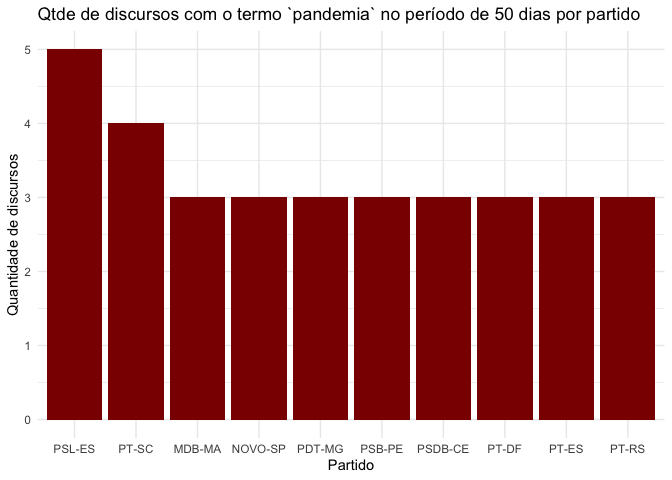
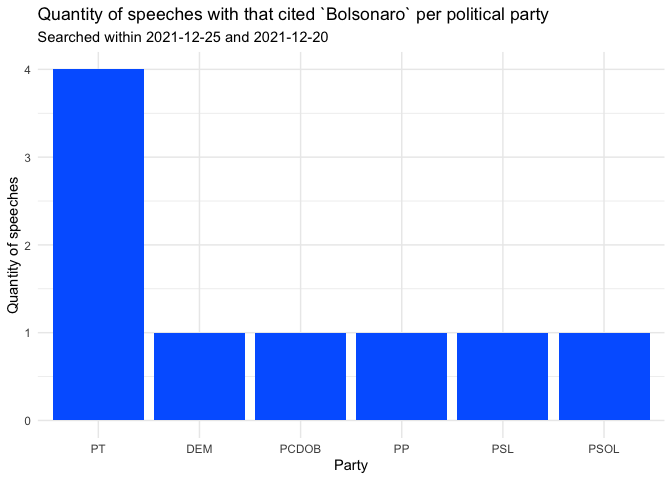
Update README

diff --git a/README.md b/README.md
@@ -27,50 +27,52 @@ devtools::install_github("dcardosos/speechbr")
 
 ## Example
 
-An example of a base searching for the term “pandemia” (“pandemic”, in
-English):
+An example of a base searching for the term “Bolsonaro”:
 
 ``` r
 library(speechbr)
 library(ggplot2)
 
-pandemic <- speechbr::speech_data(
-  keyword = "pandemia",
-  reference_date = "2021-12-20",
+tab <- speechbr::speech_data(
+  keyword = "Bolsonaro",
+  reference_date = "2021-12-25",
   qtd_days = 5)
 
-dplyr::glimpse(pandemic)
-#> Rows: 98
-#> Columns: 9
-#> $ data             <date> 2021-12-17, 2021-12-17, 2021-12-17, 2021-12-17, 2021…
-#> $ sessao           <chr> "33.2021.N", "33.2021.N", "33.2021.N", "33.2021.N", "…
+dplyr::glimpse(tab)
+#> Rows: 9
+#> Columns: 10
+#> $ data             <date> 2021-12-21, 2021-12-21, 2021-12-21, 2021-12-21, 2021…
+#> $ sessao           <chr> "35.2021.N", "35.2021.N", "35.2021.N", "35.2021.N", "…
 #> $ fase             <chr> "ORDEM DO DIA", "ORDEM DO DIA", "ORDEM DO DIA", "ORDE…
-#> $ discurso         <chr> "O SR. AGUINALDO RIBEIRO (PP - PB. Para discursar. Se…
-#> $ orador           <chr> "AGUINALDO RIBEIRO", "FELIPE CARRERAS", "FERNANDA MEL…
-#> $ partido          <chr> "PP-PB", "PSB-PE", "PSOL-RS", "PSOL-RJ", "NOVO-RJ", "…
-#> $ hora             <chr> "19h24", "19h20", "14h36", "14h28", "14h12", "13h36",…
+#> $ discurso         <chr> "O SR. KIM KATAGUIRI (DEM - SP. Pela ordem. Sem revis…
+#> $ orador           <chr> "KIM KATAGUIRI", "VITOR HUGO", "REGINALDO LOPES", "GL…
+#> $ partido          <chr> "DEM", "PSL", "PT", "PSOL", "PP", "PCDOB", "PT", "PT"…
+#> $ estado           <chr> "SP", "GO", "MG", "RJ", "BA", "BA", "SP", "SP", "MG"
+#> $ hora             <chr> "19h44", "19h32", "19h20", "19h12", "18h48", "18h44",…
 #> $ local_publicacao <chr> "DCD", "DCD", "DCD", "DCD", "DCD", "DCD", "DCD", "DCD…
-#> $ data_publicacao  <date> 2021-12-18, 2021-12-18, 2021-12-18, 2021-12-18, 2021…
+#> $ data_publicacao  <date> 2021-12-22, 2021-12-22, 2021-12-22, 2021-12-22, 2021-…
 ```
 
-The default of function is search within 2021-12-26 and 2021-12-31. If
-you want change this, use the arguments `reference_date` and `qtd_days`.
+The others parameters are `partido` (political party), `orador`
+(speaker’s name) and `uf` (state acronym). The default values of them
+are *empty* (““).
 
 A simple application using the base:
 
 ``` r
-pandemic %>% 
+tab %>% 
   dplyr::group_by(partido) %>% 
   dplyr::count(partido) %>% 
   dplyr::ungroup() %>% 
   dplyr::top_n(10, n) %>%
   ggplot(aes(reorder(partido, -n), n)) +
-  geom_bar(stat = "identity", fill = "dark red") +
+  geom_bar(stat = "identity", fill = "#0066ff") +
   theme_minimal() +
   labs(
-    title = "Qtde de discursos com o termo `pandemia` no período de 50 dias por partido",
-    x = "Partido",
-    y = "Quantidade de discursos"
+    title = "Quantity of speeches with that cited `Bolsonaro` per political party",
+    subtitle = "Searched within 2021-12-25 and 2021-12-20", 
+    x = "Party",
+    y = "Quantity of speeches"
   )
 ```
 
@@ -78,7 +80,7 @@ pandemic %>%
 
 ### Example of a base
 
-| data       | sessao    | fase         | discurso                                                                                                                                                                                                                                                                                                                                                                                                                                                                                                                                                                                                                                                                                                                                                                                                                                                                                                                                                                                                                                                                                                                                                                                                                                                                                                                                                                                                                                                                                                                                                                                                                                                                                                                                                                                                                                                                                                                                                                                                                                                                                                                                                                                                                                                                                                                                                                                                                                                                                           | orador            | partido | hora  | local_publicacao | data_publicacao |
-|:-----------|:----------|:-------------|:---------------------------------------------------------------------------------------------------------------------------------------------------------------------------------------------------------------------------------------------------------------------------------------------------------------------------------------------------------------------------------------------------------------------------------------------------------------------------------------------------------------------------------------------------------------------------------------------------------------------------------------------------------------------------------------------------------------------------------------------------------------------------------------------------------------------------------------------------------------------------------------------------------------------------------------------------------------------------------------------------------------------------------------------------------------------------------------------------------------------------------------------------------------------------------------------------------------------------------------------------------------------------------------------------------------------------------------------------------------------------------------------------------------------------------------------------------------------------------------------------------------------------------------------------------------------------------------------------------------------------------------------------------------------------------------------------------------------------------------------------------------------------------------------------------------------------------------------------------------------------------------------------------------------------------------------------------------------------------------------------------------------------------------------------------------------------------------------------------------------------------------------------------------------------------------------------------------------------------------------------------------------------------------------------------------------------------------------------------------------------------------------------------------------------------------------------------------------------------------------------|:------------------|:--------|:------|:-----------------|:----------------|
-| 2021-12-17 | 33.2021.N | ORDEM DO DIA | O SR. AGUINALDO RIBEIRO (PP - PB. Para discursar. Sem revisão do orador.) - Rapidamente, eu quero só aproveitar a fala do nosso eminente Deputado Felipe Carreras e também consignar, inclusive como Líder da Maioria no Congresso Nacional, que ontem, na reunião, representando a Maioria, ela se expressou de forma muito contundente na defesa da apreciação deste veto que trata do PERSE, que é exatamente a que se referiu o Deputado Felipe Carreras. Nós colocamos a nossa posição: não dá mais para não apreciar esta matéria, até porque estamos vendo que, pelo cenário que se avizinha, várias cidades já cancelaram eventos. Então, essa realidade vai se agravar, não vai melhorar a curto prazo.Por isso, é importante que este veto seja enfrentado logo na primeira sessão de fevereiro, pois foi o compromisso que fizemos, Presidente, com a maioria dos Líderes e com o Líder do Governo no Congresso, o Senador Eduardo Gomes. E isso foi acordado também com o Presidente Rodrigo Pacheco e com o Presidente Marcelo Ramos, que inclusive reafirmou no Senado Federal, mais cedo, exatamente a questão da retomada dos vetos.Então, eu queria só fazer esse registro, Presidente Marcelo Ramos, e agradecer aos Líderes, a V.Exa. pela condução dos trabalhos, aos nossos Presidentes Rodrigo Pacheco e Arthur Lira e, sobretudo, a todos os Líderes que, junto às suas bancadas, construíram um acordo para chegarmos nesta noite - e muitas pessoas duvidavam disso - e votarmos o que foi deliberado na tarde de hoje. Assim, queria felicitar V.Exa. pelo equilíbrio, pela serenidade e também pela firmeza na condução dos trabalhos.Quero aproveitar para desejar - como todos já o fizeram, neste clima natalino - um feliz Natal a todos! E o feliz ano novo nós deixamos para desejar na segunda-feira, quando ainda teremos sessão.                                                                                                                                                                                                                                                                                                                                                                                                                                                                                                                                                                                                                               | AGUINALDO RIBEIRO | PP-PB   | 19h24 | DCD              | 2021-12-18      |
-| 2021-12-17 | 33.2021.N | ORDEM DO DIA | O SR. FELIPE CARRERAS (PSB - PE. Para discursar. Sem revisão do orador.) - Sr. Presidente e todos os que estão assistindo à sessão de forma virtual, eu estou Presidente da Frente Parlamentar Mista em Defesa da Produção Cultural e Entretenimento, um desafio que nos foi colocado por todo esse setor no Brasil, que inclui o turismo.Este Congresso Nacional, que hoje realiza esta sessão, aprovou por ampla maioria, praticamente por unanimidade, o Programa Emergencial de Retomada do Setor de Eventos - PERSE. Infelizmente, nós não teremos a derrubada do veto sobre este tema. São impressionantes os acordos feitos! Simplesmente nós não teremos a derrubada deste veto, tão esperada pelo setor que indiscutivelmente foi e está sendo o mais penalizado no Brasil. Eu quero demonstrar minha insatisfação com essa grande injustiça, em nome de todos os produtores e de todas as produtoras de eventos, em nome de toda a classe artística brasileira, em nome de todo o trade turístico brasileiro, porque o Governo virou as costas para esse setor. Eu tenho certeza de que, se for cumprido o compromisso, no início de fevereiro, Deputado Aguinaldo Ribeiro, nós teremos a derrubada desse veto. Este Congresso não vai virar as costas para esse setor. Quero, aqui na tribuna do Congresso Nacional, também em nome dos produtores e das produtoras de eventos do Brasil, fazer um agradecimento a uma grande guerreira, a Senadora Daniella Ribeiro. Ela tem sido uma guerreira, uma grande defensora de todo o setor no Senado Federal.Quero mandar um abraço ao Doreni Caramori, Presidente da Associação Brasileira dos Promotores de Eventos - ABRAPE, e parabenizá-lo pelo associativismo desse setor, que na pandemia demonstrou sua grande união em prol de temas importantes, para fazer justiça.Quero fazer um apelo neste momento em que estamos terminando o ano: que esse setor não seja esquecido. Esse setor é tratado, muitas vezes, com hipocrisia. Em muitos Estados, os produtores não vão conseguir fazer festa de réveillon. No carnaval, não se sabe o que está proibido, não se sabe se as pessoas vão poder trabalhar em eventos privados com controle, respeitando a vacinação, em eventos só para vacinados. Muita gente não sabe se vai haver eventos. Isso é um grande desrespeito.Aqui da tribuna da Casa do Povo eu lhes digo: saibam que vocês terão voz aqui no Congresso Nacional.Um grande abraço! Um bom Natal! Que Deus os abençoe! | FELIPE CARRERAS   | PSB-PE  | 19h20 | DCD              | 2021-12-18      |
+| data       | sessao    | fase         | discurso                                                                                                                                                                                                                                                                                                                                                                                                                                                                                                                                                                                                                                                                                                                                                                                                                                                                                                                                                                                                                                                                                                                                                                                                                                                                                                                                                                                                                                                                                                                                                                                                                                                                                                                                                                                                                                                                                                                                                                                                                                                                                                                                                                                                                                                                                                                                                                                                                                                                                                                                                                                                                                                                                                                                                                                                                                                                                                                                                                                                                                                                                                                                                                                                                                                                                                                                                                                                                                                                                                                                                                                                                                                                                                                                                                                                                                                                                                                                                                                                                                                                                                                                                                                                                                                                                                                                                                                                                                                                                                                                                                                                                                                                                                                                                                                                                                                                                                                                                                                                                                                                                                                                                                                                                                                                                                                                                                                                                                                                                                                                                                                                                                                                                                                                                                                                                                                                                                                                                                                                                                                                               | orador        | partido | estado | hora  | local_publicacao | data_publicacao |
+|:-----------|:----------|:-------------|:---------------------------------------------------------------------------------------------------------------------------------------------------------------------------------------------------------------------------------------------------------------------------------------------------------------------------------------------------------------------------------------------------------------------------------------------------------------------------------------------------------------------------------------------------------------------------------------------------------------------------------------------------------------------------------------------------------------------------------------------------------------------------------------------------------------------------------------------------------------------------------------------------------------------------------------------------------------------------------------------------------------------------------------------------------------------------------------------------------------------------------------------------------------------------------------------------------------------------------------------------------------------------------------------------------------------------------------------------------------------------------------------------------------------------------------------------------------------------------------------------------------------------------------------------------------------------------------------------------------------------------------------------------------------------------------------------------------------------------------------------------------------------------------------------------------------------------------------------------------------------------------------------------------------------------------------------------------------------------------------------------------------------------------------------------------------------------------------------------------------------------------------------------------------------------------------------------------------------------------------------------------------------------------------------------------------------------------------------------------------------------------------------------------------------------------------------------------------------------------------------------------------------------------------------------------------------------------------------------------------------------------------------------------------------------------------------------------------------------------------------------------------------------------------------------------------------------------------------------------------------------------------------------------------------------------------------------------------------------------------------------------------------------------------------------------------------------------------------------------------------------------------------------------------------------------------------------------------------------------------------------------------------------------------------------------------------------------------------------------------------------------------------------------------------------------------------------------------------------------------------------------------------------------------------------------------------------------------------------------------------------------------------------------------------------------------------------------------------------------------------------------------------------------------------------------------------------------------------------------------------------------------------------------------------------------------------------------------------------------------------------------------------------------------------------------------------------------------------------------------------------------------------------------------------------------------------------------------------------------------------------------------------------------------------------------------------------------------------------------------------------------------------------------------------------------------------------------------------------------------------------------------------------------------------------------------------------------------------------------------------------------------------------------------------------------------------------------------------------------------------------------------------------------------------------------------------------------------------------------------------------------------------------------------------------------------------------------------------------------------------------------------------------------------------------------------------------------------------------------------------------------------------------------------------------------------------------------------------------------------------------------------------------------------------------------------------------------------------------------------------------------------------------------------------------------------------------------------------------------------------------------------------------------------------------------------------------------------------------------------------------------------------------------------------------------------------------------------------------------------------------------------------------------------------------------------------------------------------------------------------------------------------------------------------------------------------------------------------------------------------------------------------------------------------------------------------------------|:--------------|:--------|:-------|:------|:-----------------|:----------------|
+| 2021-12-21 | 35.2021.N | ORDEM DO DIA | O SR. KIM KATAGUIRI (DEM - SP. Pela ordem. Sem revisão do orador.) - Sr. Presidente, Sras. e Srs. Deputados, Sras. e Srs. Senadores, lamento que o ano termine com este Parlamento chancelando o que o Governo de Jair Bolsonaro enviou para o Orçamento do ano que vem: previsão de fila para receber o Auxílio Brasil, para quem está na pobreza, para quem está na extrema pobreza, e de prioridade tanto para o orçamento do Fundo Eleitoral, para o pagamento de campanhas políticas, como também para o orçamento secreto. E sei também que muitos dos Parlamentares bolsonaristas votam agora contra o Orçamento, mas jogando para a plateia. É gente que vota contra aqui no plenário, mas depois, na campanha do ano que vem, vai pedir ao seu partido recursos, dinheiro, para fazer campanha. Pelo menos quem vota ‘sim’ nesta votação assume o ônus, assume que está a favor do aumento e não é hipócrita como parte daqueles que votam contra, fazem uma graça aqui em plenário, mas, depois, no ano que vem, vão pedir dinheiro público do Fundo Eleitoral para fazer suas campanhas. Eu me recusei a colocar a minha digital, o meu voto a favor de um Orçamento que prevê 13 vezes mais investimento em campanha eleitoral do que em saneamento básico - é mais importante comprar santinho, alugar caminhão de som, pagar a cabo eleitoral do que garantir acesso a banheiro e a água tratada para milhões de brasileiros. Há 1.167 vezes mais orçamento secreto do que gasto com habitação; mais do que com esporte, mais do que com cultura, mais do que com ciência e tecnologia, mais do que com meio ambiente, mais do que com energia. Diversos Parlamentares nesta Casa têm por bandeira a defesa do meio ambiente, têm por bandeira a defesa do setor energético, têm por bandeira a defesa da cultura, a defesa do esporte, mas, infelizmente, nós não vimos essa atuação tão efusiva na defesa do Orçamento. O Orçamento foi muito mais voltado para a campanha eleitoral e para o orçamento secreto, para o recebimento de dinheiro, de verba, para inaugurarem obra nos seus redutos eleitorais e permanecerem como base do Governo Bolsonaro e coligados com o Governo Bolsonaro. Enfim, haverá um gasto para que o Presidente da República mantenha a sua coligação no ano que vem maior do que com esporte, maior do que com ciência e tecnologia, que estão com as bolsas, como já foi bem colocado aqui, absolutamente sucateadas. E no orçamento secreto não há ideologia, não. Há petista recebendo recursos, há pedetista recebendo recursos; gente do Governo, gente da Oposição. Nessa hora, não há petismo, não há bolsonarismo, ambos votam com o mesmo interesse. Depois, a classe política, nós políticos não sabemos por que as ruas, por que a população tem cada vez menos apreço pela classe política. Ora, vejam as prioridades que nós estabelecemos no Orçamento! Eu peço mais 30 segundos para concluir, Presidente. Vejam as prioridades que esta Casa dá no Orçamento! Dá prioridade para campanha eleitoral, dá prioridade para orçamento secreto, em detrimento de áreas fundamentais para o nosso País, como a ciência e tecnologia, a habitação e o saneamento básico.Eu posso, no ano que vem, não receber nenhum centavo de dinheiro público para fazer minha campanha, mas faço e a farei com a consciência tranquila de que não vendi o meu voto, ou a minha alma, ou a minha convicção, em troca de financiamento público.Obrigado.                                                                                                                                                                                                                                                                                                                                                                                                                                                                                                                                                                                                                                                                                                                                                                                                                                                                                                                                                                                                                                                                                                                                                                                                                                                                                                                                                                                                                                                                                                                                                                                                                                                                                                                                                                                                                                                                                                                                                                                                                                                                                                                                                                                                                                                                                                                                                                                                                                                                                                                                                                                      | KIM KATAGUIRI | DEM     | SP     | 19h44 | DCD              | 2021-12-22      |
+| 2021-12-21 | 35.2021.N | ORDEM DO DIA | O SR. VITOR HUGO (PSL - GO. Pela ordem. Sem revisão do orador.) - Sr. Presidente, inicialmente eu queria parabenizar a Senadora Rose de Freitas pela Presidência da CMO e também o Deputado Hugo Leal pela condução dos trabalhos em relação à relatoria do Orçamento neste ano.Quero dizer da nossa felicidade por termos aprovado esta peça. Por isto o PSL votou a favor: porque sabemos da importância do Orçamento para o Brasil. A maioria do PSL, pelo menos, votou a favor.É claro que a nossa posição já ficou muito clara em relação ao aumento do Fundo Eleitoral quando da apreciação do veto do Presidente Bolsonaro em relação à LDO. Ali o PSL apresentou um destaque. V.Exa. concedeu a votação nominal já de ofício, até porque isso era regimental. Ali, cada Deputado e Senador pôde mostrar a sua posição sobre o fundo.O nosso combate continuou. Nós apresentamos aqui dois destaques, um requerimento de preferência e um destaque de preferência. Na avaliação da nossa Liderança, havia, sim, espaço regimental para isso. O Regimento é uma peça jurídica e nele cabem interpretações.Na nossa visão, o art. 132-A, que trata de apresentações genéricas de destaque, combinado com o art. 49, § 5º, que fala que, recaindo a preferência sobre o substitutivo - que era o caso -, poderão ser destacadas partes do projeto ou emendas, nós fizemos destaque de preferência para parte do projeto original. O Regimento Comum não fala que, para destaque de preferência para parte do projeto, tem que haver apoiamento.Essa foi a interpretação da nossa Liderança. Nós a apresentamos nesse sentido sem qualquer intenção diferente de que cada um pudesse aqui se manifestar, votar e demonstrar mais uma vez para todo o País qual é a sua posição.Essa foi a interpretação do PSL, mas eu quero esclarecer também à Nação que essa posição já ficou evidente na votação do veto. Ali cada um já pôde expressar sua posição.Quero também aqui, Presidente, dizer que não houve, na sua fala - eu vou me retratar com V.Exa. -, nenhuma expressão de leviandade ou de deslealdade daí da Mesa, embora tenha havido uma fala dizendo que certamente era da minha ciência que os destaques apresentados pelo PSL seriam descabidos, o que eu reforço que não eram. Não tinha como saber da interpretação da Mesa em relação a isso; inclusive, várias outras Lideranças se manifestaram no sentido de que eram, sim, cabidos os destaques.Feita essa ressalva, eu quero dizer que nós votamos a favor do Orçamento como um todo porque esse pequeno detalhe, que já havia sido decidido na derrubada do veto, certamente não vai ofuscar todo o trabalho que o Parlamento fez em relação à distribuição de recursos para os mais diversos rincões do nosso País, para cuidar da educação, da saúde, da segurança e de outros temas.Muito obrigado, Presidente.O SR. PRESIDENTE (Marcelo Ramos. PL - AM) - Obrigado.Deputado Vitor Hugo, eu faço questão de fazer um esclarecimento a V.Exa.Esse é um debate muito contaminado por um episódio que aconteceu algumas sessões atrás, também relacionado ao Fundo Eleitoral. Talvez a contaminação daquele episódio tenha também contaminado o julgamento que eu fiz do requerimento apresentado por V.Exa.A Mesa tem uma interpretação absolutamente clara, e com a qual eu concordo, que está fundada no art. 132, que diz:Art. 132. O parecer da CMO sobre as emendas à receita e à despesa será conclusivo e final, salvo requerimento para que emenda seja submetida a votos, assinado por 1/10 (um décimo) dos congressistas e apresentado à Mesa do Congresso Nacional até o início da ordem do dia da sessão do Congresso Nacional.Além disso, o art. 139, inciso II, estabelece:Art. 139. Ressalvados os casos específicos previstos nesta Resolução, somente será admitido destaque:…………………………………………………………………………………II - ao substitutivo - como era o caso -, para supressão de dispositivo ou parte de dispositivo;Então, nós temos a mais absoluta clareza de que o requerimento era indevido. No entanto, quando nós recebemos o requerimento da Mesa, a minha primeira palavra à Secretaria-Geral da Mesa foi que eu o colocaria em votação, a despeito do entendimento de que ele não cabia no disposto no art. 139, inciso II. Fui alertado pela Mesa de que ele teria inadequação formal que abriria um precedente gravíssimo, porque, na hora em que eu permitisse, nesse episódio, a votação de um destaque sem um décimo de apoiamento, estaria permitindo para todos os episódios, e o nosso Regimento viraria letra morta.Mas eu quero aqui considerar verdadeiramente como uma diferença de interpretação, e quero também, no limite do que eu disse, em público, na Mesa, fazer meu pedido de desculpas a V.Exa. No grupo, já conversamos pessoalmente e nos entendemos. Eu até posso ter um julgamento político, não da conduta de V.Exa., mas não cabe fazê-lo no exercício da Presidência da Casa, e por isso não vou me abster de fazer qualquer comentário em relação à fala do Deputado Glauber. Mas, em relação à conduta pessoal de V.Exa., eu quero aqui admitir que não houve nenhuma tentativa de manipulação da votação.Eu tenho procurado, no exercício da Presidência, ser sempre absolutamente leal, transparente com os colegas, e cumprir o que determina o Regimento.Se porventura ficou algum mal-entendido, eu renovo o pedido de desculpas a V.Exa., reafirmando a clareza da interpretação da Mesa, que é a clareza da interpretação da grande maioria dos Deputados, de que faltou o apoiamento. E, mesmo o Regimento estabelecendo que esse apoiamento tem que estar acompanhado do pedido de destaque já no início da sessão, eu ainda deferi o tempo do início da sessão até o momento da votação do destaque, para que, se por acaso fossem alcançadas as 60 assinaturas, nós colocássemos o requerimento em votação.Mas acho que esse é um episódio superado, o Brasil é muito maior do que essas diferenças que porventura nós tenhamos em algum momento. | VITOR HUGO    | PSL     | GO     | 19h32 | DCD              | 2021-12-22      |
